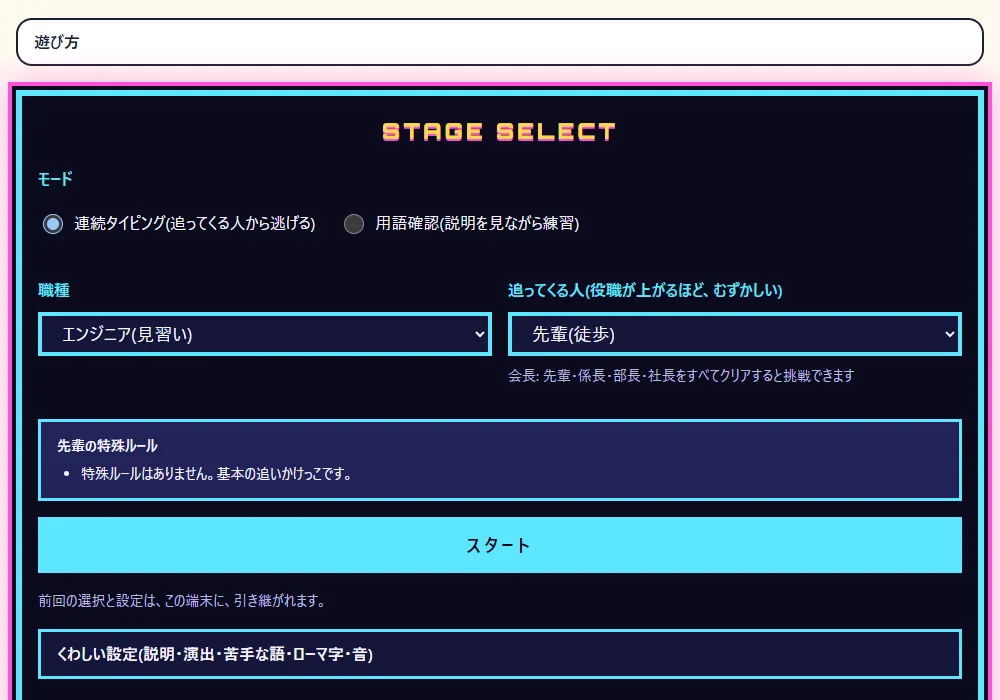
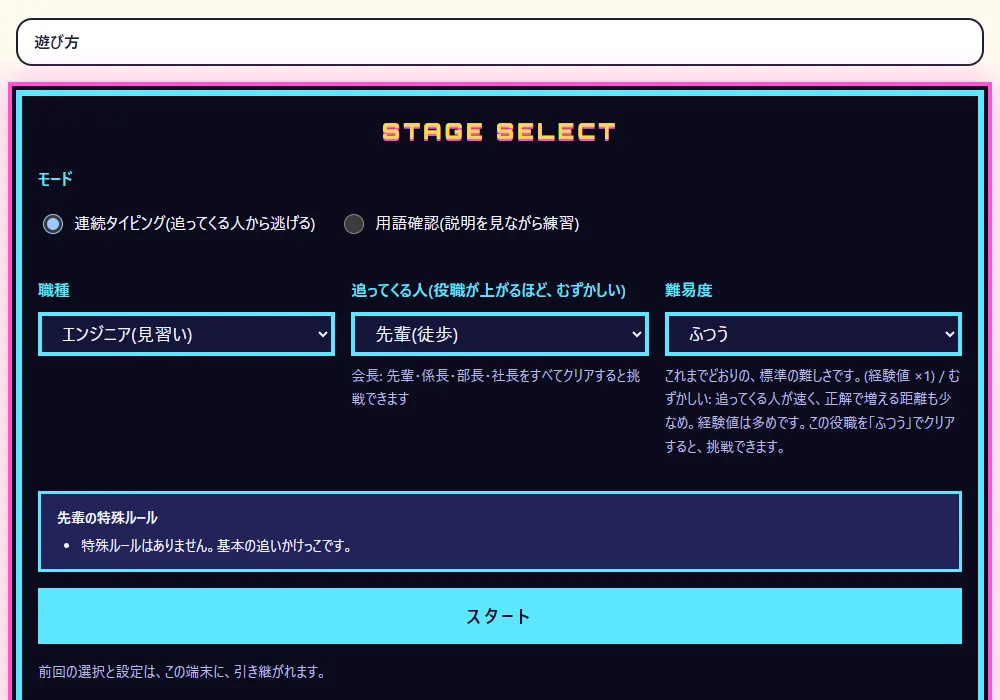
feat: スタート前の難易度の選択欄を戻す(Issue #173)
運営者の回答(#173)を受け、0061 の「難易度 = 追ってくる人」を置き換えて、
職種・追ってくる人と並べて難易度(やさしい・ふつう・むずかしい)を選べるようにした。
難易度の中身・記録・ランキングは変えていない。決定ログ 0076。

Claude-Session: https://claude.ai/code/session_012j85mPf5PLV4M5MMyGfvgc

diff --git a/public/assets/js/games/escape-boss/view.js b/public/assets/js/games/escape-boss/view.js
@@ -151,6 +151,7 @@ export function createView(root) {
     mode: "[data-mode-list]",
     job: "[data-job-list]",
     role: "[data-role-list]",
+    difficulty: "[data-difficulty-list]",
   };
   const checkedValue = (name) =>
     name === "mode"
@@ -164,6 +165,7 @@ export function createView(root) {
   function applyMode() {
     const check = currentMode() === "check";
     $("[data-role-fieldset]").hidden = check;
+    $("[data-difficulty-fieldset]").hidden = check;
     updateRoleRules();
     $("[data-explanation-option]").hidden = check;
     $("[data-weak-option]").hidden = check;
@@ -195,12 +197,53 @@ export function createView(root) {
     );
   }
 
-  // 選んだ職種・役職の自己ベスト(いつもの難易度=ふつうの記録。役職を選び直すたびに更新する)
+  // 難易度の選択(役職ごとに、挑戦できるかが変わる。役職を選び直すたびに、作り直す)
+  let setupDifficulties = [];
+  let difficultyUnlockOf = () => true;
+  let initialDifficulty;
+
+  function renderDifficultyList() {
+    const roleId = checkedValue("role");
+    const previous = checkedValue("difficulty") ?? initialDifficulty;
+    initialDifficulty = undefined;
+    const unlocked = (difficulty) => difficultyUnlockOf(difficulty, roleId);
+    const selectable = setupDifficulties.find((item) => item.id === previous && unlocked(item));
+    const selectedId = selectable ? previous : DEFAULT_DIFFICULTY;
+    $("[data-difficulty-list]").replaceChildren(
+      ...setupDifficulties.map((difficulty) =>
+        option({
+          value: difficulty.id,
+          label: difficulty.name,
+          selected: unlocked(difficulty) && difficulty.id === selectedId,
+          disabled: !unlocked(difficulty),
+          badge: unlocked(difficulty) ? "" : "ロック中",
+        }),
+      ),
+    );
+    updateDifficultyInfo();
+  }
+
+  // 選んだ難易度の説明・経験値の倍率と、ロック中の難易度の解放の条件
+  function updateDifficultyInfo() {
+    const roleId = checkedValue("role");
+    const difficulty = setupDifficulties.find((item) => item.id === checkedValue("difficulty"));
+    const locked = setupDifficulties.filter((item) => !difficultyUnlockOf(item, roleId));
+    const lines = [];
+    if (difficulty) {
+      lines.push(`${difficulty.description}(経験値 ×${difficulty.exp_multiplier})`);
+    }
+    for (const item of locked) lines.push(`${item.name}: ${item.description}`);
+    $("[data-difficulty-hint]").textContent = lines.join(" / ");
+    updateBest();
+  }
+
+  // 選んだ職種・役職・難易度の自己ベスト(役職・難易度を選び直すたびに更新する)
   let bestOfJob = () => null;
   function updateBest() {
     const jobId = checkedValue("job");
     const roleId = checkedValue("role");
-    const best = jobId && roleId ? bestOfJob(jobId, roleId, DEFAULT_DIFFICULTY) : null;
+    const difficultyId = checkedValue("difficulty") ?? DEFAULT_DIFFICULTY;
+    const best = jobId && roleId ? bestOfJob(jobId, roleId, difficultyId) : null;
     const bestNode = $("[data-role-best]");
     bestNode.hidden = !best;
     if (best) {
@@ -208,9 +251,21 @@ export function createView(root) {
     }
   }
 
-  function renderSetup({ jobs, roles, isUnlocked, bestOf, masteries = [], choice = {} }) {
+  function renderSetup({
+    jobs,
+    roles,
+    isUnlocked,
+    difficulties,
+    isDifficultyUnlocked,
+    bestOf,
+    masteries = [],
+    choice = {},
+  }) {
     setupRoles = roles;
+    setupDifficulties = difficulties;
+    difficultyUnlockOf = isDifficultyUnlocked;
     bestOfJob = bestOf;
+    initialDifficulty ??= choice.difficulty || undefined;
     // 選んでいる値がなければ(最初の描画)、前回の選択を使う。データにない id・ロック中の役職は、使わない
     const jobId = checkedValue("job") ?? choice.job;
     let roleId = checkedValue("role") ?? choice.role;
@@ -264,7 +319,7 @@ export function createView(root) {
     hint.textContent = locked.map((role) => `${role.name}: ${role.unlock.hint}`).join(" / ");
     hint.hidden = locked.length === 0;
     updateRoleRules();
-    updateBest();
+    renderDifficultyList();
     $("[data-start]").disabled = false;
     applyMode();
   }
@@ -323,16 +378,16 @@ export function createView(root) {
         const mode = currentMode();
         const jobId = checkedValue("job");
         const roleId = checkedValue("role");
-        if (jobId && (mode === "check" || roleId)) {
-          onStart({ mode, jobId, roleId, difficulty: DEFAULT_DIFFICULTY });
-        }
+        const difficulty = checkedValue("difficulty") ?? DEFAULT_DIFFICULTY;
+        if (jobId && (mode === "check" || roleId)) onStart({ mode, jobId, roleId, difficulty });
       });
       $("[data-mode-list]").addEventListener("change", applyMode);
       $("[data-job-list]").addEventListener("change", updateBest);
       $("[data-role-list]").addEventListener("change", () => {
         updateRoleRules();
-        updateBest();
+        renderDifficultyList();
       });
+      $("[data-difficulty-list]").addEventListener("change", updateDifficultyInfo);
       // 前回の選択を引き継ぐため、選び直したら、知らせる(上の更新のあとに動く)
       for (const selector of Object.values(CHOICE_LISTS)) {
         $(selector).addEventListener("change", () =>
@@ -340,6 +395,7 @@ export function createView(root) {
             mode: currentMode(),
             job: checkedValue("job") ?? "",
             role: checkedValue("role") ?? "",
+            difficulty: checkedValue("difficulty") ?? "",
           }),
         );
       }
@@ -413,11 +469,23 @@ export function createView(root) {
     },
 
     // ダッシュボード全体を描画する。選択中の職種・役職・難易度は、可能なら保持する。
-    renderDashboard({ jobs, roles, isUnlocked, bestOf, storageNotice, masteries, choice }) {
+    renderDashboard({
+      jobs,
+      roles,
+      isUnlocked,
+      difficulties,
+      isDifficultyUnlocked,
+      bestOf,
+      storageNotice,
+      masteries,
+      choice,
+    }) {
       renderSetup({
         jobs,
         roles,
         isUnlocked,
+        difficulties,
+        isDifficultyUnlocked,
         bestOf,
         masteries,
         choice,

diff --git a/tests/difficulty-wiring.test.js b/tests/difficulty-wiring.test.js
@@ -12,12 +12,17 @@ const main = read("public/assets/js/games/escape-boss/main.js");
 const profileHtml = read("public/games/escape-boss/profile/index.html");
 const profilePage = read("public/assets/js/games/escape-boss/profile-page.js");
 
-describe("難易度は、追ってくる人(役職)と同じ(Issue #144)", () => {
-  it("開始前の選択に、難易度の選択欄はない。役職の選択に、難易度の意味を添える", () => {
-    for (const hook of ["data-difficulty-list", "data-difficulty-fieldset", "setup-difficulty"]) {
-      assert.ok(!html.includes(hook), hook);
+describe("難易度の選択(Issue #173。0061 の「難易度 = 役職」を、選択欄の復活で置き換え)", () => {
+  it("開始前の選択に、職種・追ってくる人と並んで、難易度の選択欄がある", () => {
+    for (const hook of [
+      "data-difficulty-list",
+      "data-difficulty-fieldset",
+      "data-difficulty-hint",
+    ]) {
+      assert.ok(html.includes(hook), hook);
     }
-    assert.ok(html.includes("追ってくる人(役職が上がるほど、むずかしい)"));
+    assert.match(html, /<label for="setup-difficulty">難易度<\/label>/);
+    assert.ok(html.indexOf("data-role-list") < html.indexOf("data-difficulty-list"));
     assert.match(html, /data-role-best hidden/);
   });
 
@@ -30,35 +35,45 @@ describe("難易度は、追ってくる人(役職)と同じ(Issue #144)", () =>
 });
 
 describe("view.js のつなぎ(難易度)", () => {
-  it("難易度の選択の描画・イベントは、なくなった。自己ベストは、役職の欄で更新する", () => {
-    for (const gone of ["renderDifficultyList", "updateDifficultyInfo", "data-difficulty-list"]) {
-      assert.ok(!view.includes(gone), gone);
+  it("難易度の描画・イベントがある。役職を選び直すと、難易度のロック状態を作り直す", () => {
+    for (const name of ["renderDifficultyList", "updateDifficultyInfo", "data-difficulty-list"]) {
+      assert.ok(view.includes(name), name);
     }
     const fn = view.slice(
-      view.indexOf("function updateBest"),
+      view.indexOf("function renderDifficultyList"),
       view.indexOf("function renderSetup"),
     );
-    assert.match(fn, /bestOfJob\(jobId, roleId, DEFAULT_DIFFICULTY\)/);
+    assert.match(fn, /bestOfJob\(jobId, roleId, difficultyId\)/);
     assert.ok(!/innerHTML/.test(fn));
     assert.match(view, /\$\("\[data-job-list\]"\)\.addEventListener\("change", updateBest\);/);
     assert.match(
       view,
-      /\$\("\[data-role-list\]"\)\.addEventListener\("change", \(\) => \{\s*updateRoleRules\(\);\s*updateBest\(\);\s*\}\);/,
+      /\$\("\[data-role-list\]"\)\.addEventListener\("change", \(\) => \{\s*updateRoleRules\(\);\s*renderDifficultyList\(\);\s*\}\);/,
+    );
+    assert.match(
+      view,
+      /\$\("\[data-difficulty-list\]"\)\.addEventListener\("change", updateDifficultyInfo\);/,
     );
   });
 
-  it("開始の送信は、いつも既定の難易度(ふつう)を onStart に渡す", () => {
+  it("開始の送信は、選んでいる難易度を onStart に渡す(なければ既定のふつう)", () => {
     const start = view.indexOf('addEventListener("submit"');
     const submit = view.slice(start, view.indexOf("});", start) + 3);
-    assert.match(submit, /onStart\(\{ mode, jobId, roleId, difficulty: DEFAULT_DIFFICULTY \}\)/);
+    assert.match(submit, /checkedValue\("difficulty"\) \?\? DEFAULT_DIFFICULTY/);
+    assert.match(submit, /onStart\(\{ mode, jobId, roleId, difficulty \}\)/);
   });
 
-  it("renderDashboard: bestOf を renderSetup に渡す", () => {
+  it("用語確認では、難易度の選択欄を隠す", () => {
+    const fn = view.slice(view.indexOf("function applyMode"), view.indexOf("function option"));
+    assert.match(fn, /\[data-difficulty-fieldset\]"\)\.hidden = check/);
+  });
+
+  it("renderDashboard: difficulties・isDifficultyUnlocked・bestOf を renderSetup に渡す", () => {
     const fn = view.slice(
       view.indexOf("renderDashboard({"),
       view.indexOf("// 「プレイ中に、用語の説明も"),
     );
-    assert.match(fn, /renderSetup\(\{\s*jobs,\s*roles,\s*isUnlocked,\s*bestOf,/);
+    assert.match(fn, /renderSetup\(\{[\s\S]*?difficulties,\s*isDifficultyUnlocked,\s*bestOf,/);
   });
 });
 

diff --git a/public/games/escape-boss/about/index.html b/public/games/escape-boss/about/index.html
@@ -70,7 +70,7 @@
             </div>
             <div class="product__meta-row">
               <dt>バージョン</dt>
-              <dd>v0.30.0</dd>
+              <dd>v0.31.0</dd>
             </div>
             <div class="product__meta-row">
               <dt>公開</dt>
@@ -78,7 +78,7 @@
             </div>
             <div class="product__meta-row">
               <dt>更新</dt>
-              <dd><time datetime="2026-10-01">2026年10月1日</time></dd>
+              <dd><time datetime="2026-10-03">2026年10月3日</time></dd>
             </div>
           </dl>
           <div class="product__actions">
@@ -366,6 +366,19 @@
         <section class="product__section" id="changelog" aria-labelledby="changelog-title">
           <h2 id="changelog-title">更新履歴</h2>
           <ol class="changelog">
+            <li class="changelog__item">
+              <h3 class="changelog__version">
+                v0.31.0
+                <span class="changelog__date"
+                  ><time datetime="2026-10-03">2026年10月3日</time></span
+                >
+              </h3>
+              <ul>
+                <li>
+                  スタートの前の選択に、難易度(やさしい・ふつう・むずかしい)の選択欄を戻した。むずかしいは、その役職をふつうでクリアすると挑戦できる
+                </li>
+              </ul>
+            </li>
             <li class="changelog__item">
               <h3 class="changelog__version">
                 v0.30.0

diff --git a/public/games/escape-boss/index.html b/public/games/escape-boss/index.html
@@ -118,6 +118,16 @@
                 ></select>
                 <p class="game-setup__hint" id="setup-role-hint" data-role-hint hidden></p>
               </div>
+              <div class="game-setup__choice" data-difficulty-fieldset>
+                <label for="setup-difficulty">難易度</label>
+                <select
+                  class="game-input__field game-setup__select"
+                  id="setup-difficulty"
+                  aria-describedby="setup-difficulty-hint"
+                  data-difficulty-list
+                ></select>
+                <p class="game-setup__hint" id="setup-difficulty-hint" data-difficulty-hint></p>
+              </div>
             </div>
             <div class="game-setup__rules" aria-live="polite" data-role-rules hidden>
               <p class="game-setup__rules-title">

diff --git a/public/assets/js/games/escape-boss/main.js b/public/assets/js/games/escape-boss/main.js
@@ -125,6 +125,8 @@ function refreshDashboard() {
     jobs,
     roles,
     isUnlocked: (role) => isRoleUnlocked(data, role),
+    difficulties,
+    isDifficultyUnlocked: isDifficultyUnlockedFor,
     bestOf: bestOfJob,
     storageNotice,
     masteries: jobMasteries(

diff --git a/CLAUDE.md b/CLAUDE.md
@@ -330,7 +330,7 @@ NOLITO(ノリト)個人開発プロダクトポータルサイト。仕様は `d
 
 - 決定は `docs/decisions/0059-game-start-flow.md`。連続タイピングの進み方は **ready → intro → play → outro → 結果**。「スタート」で `beginGame` が `session.phase = "ready"` にして準備の枠(`data-ready`)を出し、**半角スペース**(か枠のボタン)で `leaveReady()` → `beginIntro()`。**`beginIntro` を呼ぶのは `leaveReady` だけ**(自動で始めない)。**全角スペース**は始めず、枠の中の通知(`data-ready-notice`。`role="alert"`)で知らせる。それ以外の文字は無視(ミスにも数えない)。用語確認には準備がない。
 - 判断は `ready.js` の `readyAction(char)`(DOM・時計に触れない)。全角スペースはソースに直接書かず `String.fromCodePoint(0x3000)`。準備の枠に `data-chase-only` を付けない(`showPlay` が再表示するため)。`hideReady` は `clearStaging` の最後で呼ぶ(`tests/rule-cues.test.js` が先頭の並びを検査)。
-- スタート前の選択は、**モード = ラジオボタン**(`data-mode-list`)、職種・追ってくる人 = **ドロップダウン**(`<select>`。`data-*-list`)。並びは モード → 職種・追ってくる人 → スタート。**難易度の選択欄はない**(難易度 = 追ってくる人。プレイはいつも「ふつう」。決定ログ 0061。難易度のデータ・記録・ランキングの選択欄は残す)。ロック中は `disabled` + 文字のバッジ。そのほかの設定は、ダッシュボードの「くわしい設定」(`<details class="game-setup__more">`)に畳む(プレイ画面には、開閉の部品を置かない)。
+- スタート前の選択は、**モード = ラジオボタン**(`data-mode-list`)、職種・追ってくる人 = **ドロップダウン**(`<select>`。`data-*-list`)。並びは モード → 職種・追ってくる人・難易度 → スタート。**難易度の選択欄は、Issue #173 で戻した**(決定ログ 0076。0061 の「難易度 = 追ってくる人」を置き換え。既定はふつう。むずかしいは、その役職をふつうでクリアするまでロック中。用語確認では隠す。`view.js` の `renderDifficultyList`。中身・記録・ランキングは 0037 のまま)。ロック中は `disabled` + 文字のバッジ。そのほかの設定は、ダッシュボードの「くわしい設定」(`<details class="game-setup__more">`)に畳む(プレイ画面には、開閉の部品を置かない)。
 - 前回の選択は、ゲーム設定(`settings.js`)の `lastChoice`(`mode`・`job`・`role`・`difficulty`)に保存する。記録のキー・版(5)は変えない。いま選べない値は、選ばない。
 
 - **スタート前のフォーム(`.game-setup`)も、アーケード風の暗い枠**(プレイ中・結果と同じ共通の規則。飾りの見出し `STAGE SELECT` は `aria-hidden`。Issue #173・決定 `docs/decisions/0074-arcade-start-screen.md`)。色はトークン経由のまま(選択欄は `--color-surface`・`--color-text`)。

diff --git a/docs/decisions/0076-difficulty-selector-restored.md b/docs/decisions/0076-difficulty-selector-restored.md
@@ -1,0 +1,28 @@
+# 0076 スタート前の難易度の選択欄を戻す(Issue #173)
+
+## 理由
+
+Issue #173 の運営者のコメント「ここからゲーム感を出してほしい / 職種と難易度が選べなくなった」を受け、確認した(選択肢 1「難易度が選べるようになった」)。運営者の回答は「1. 難易度が選べるようになった」(2026-10-03)。0061(Issue #144)は「難易度 = 追ってくる人(役職)」として、スタート前の難易度の選択欄を外していたが、その判断を、この決定で置き換える(役職と難易度は、別の軸として、両方選べる)。
+
+## 変更
+
+- スタート前のフォームに、職種・追ってくる人と並んで、「難易度」のドロップダウン(やさしい / ふつう / むずかしい)を戻した(`data-difficulty-list`)。選んだ難易度の説明・経験値の倍率・まだ挑戦できない難易度の説明を、下に出す。
+- 既定は「ふつう」。**むずかしいは、その役職を「ふつう」でクリアするまで、ロック中**(`disabled` + 文字のバッジ。0037 の解放の決めのまま)。役職を選び直すたびに、ロック状態を作り直す。
+- 用語確認では、難易度の欄も隠す(役職と同じ。追いかけがないため)。
+- 前回の選択は、ゲーム設定の `lastChoice.difficulty` に保存する(0059 で、すでにある項目)。いま選べない値は選ばない。
+- 難易度の中身・倍率・記録・ランキング・実績・経験値の決めは、変えていない(0037)。やさしいは、ランキング・役職クリアの実績・会長の解放に数えない。
+
+## 影響範囲
+
+- `index.html`・`view.js`・`main.js` のつなぎだけ。`difficulty.js`・`engine.js`・`records.js`・`storage.js`・`roles.json`・`difficulties.json` は変えていない。
+- 記録の版(`DATA_VERSION` 5)・キー(`v1`)・プライバシーポリシーの版は、変えていない。
+- ゲームの更新履歴(`products.json`)を 0.31.0 に。ダッシュボードの画面を撮り直した。
+
+## テスト
+
+- `tests/difficulty-wiring.test.js`(HTML の目印・並び・ラベル・描画とイベントのつなぎ・開始の送信・用語確認での非表示)を含む `npm run check`。
+- Edge で、1280px・360px を確認: 横はみ出しなし・既定がふつう・むずかしいがロック中・やさしいを選ぶと説明が変わる・用語確認で欄が隠れる・選んだ難易度が `lastChoice` に保存される。
+
+## 未対応
+
+- 運営者の実機での確認。
